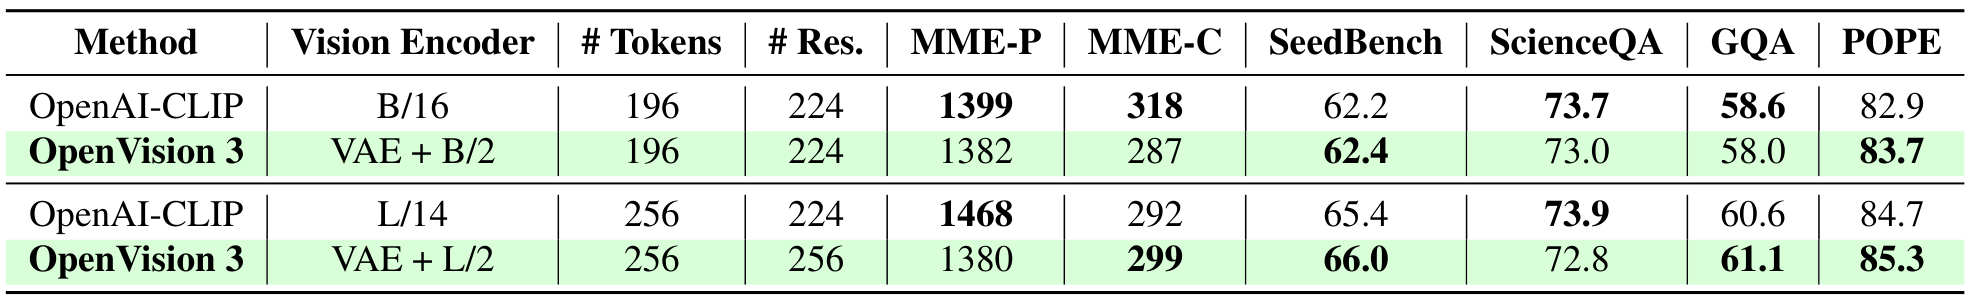
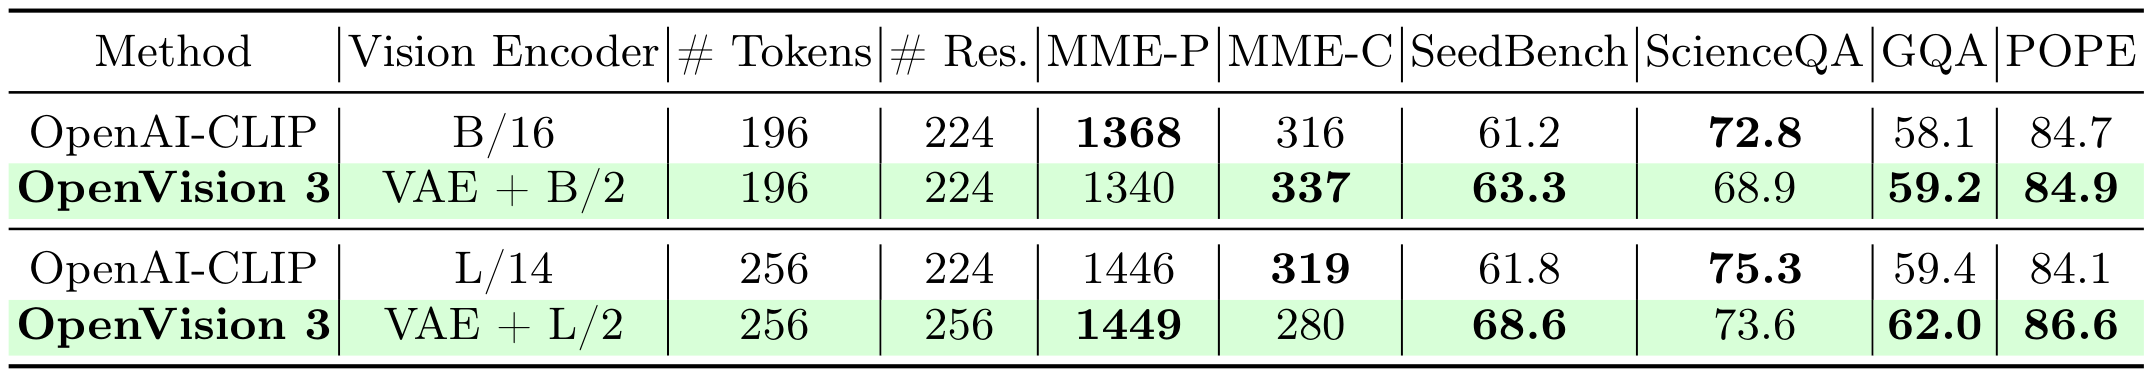
update openvision3

diff --git a/OpenVision3/index.html b/OpenVision3/index.html
@@ -89,7 +89,7 @@
 <div style="max-width: 900px; margin: 2em auto; text-align: left;">
   <h2 class="title is-3 has-text-centered">Abstract</h2>
   <p style="font-size: 1.1em; line-height: 1.6;">
-    This paper presents a family of advanced vision encoder, named OpenVision 3, that learns a single, unified visual representation that can serve both image understanding and image generation. Our core architecture is simple: we feed VAE-compressed image latents to a ViT encoder and train its output to support two complementary roles. First, the encoder output is passed to the ViT-VAE decoder to reconstruct the original image, encouraging the representation to capture generative structure. Second, the same representation is optimized with contrastive learning and image-captioning objectives, strengthening semantic features. By jointly optimizing reconstruction- and semantics-driven signals in a shared latent space, the encoder learns representations that synergize and generalize well across both regimes. We validate this unified design through extensive downstream evaluations with the encoder frozen. For multimodal understanding, we plug the encoder into the LLaVA-1.5 framework: it performs comparably with a standard CLIP vision encoder (e.g., 62.4 vs 62.2 on SeedBench, and 83.7 vs 82.9 on POPE). For generation, we test it under the RAE framework: ours substantially surpasses the standard CLIP-based encoder (e.g., gFID: 1.89 vs 2.54 on ImageNet). We hope this work can spur future research on unified modeling.
+    This paper presents a family of advanced vision encoder, named OpenVision 3, that learns a single, unified visual representation that can serve both image understanding and image generation. Our core architecture is simple: we feed VAE-compressed image latents to a ViT encoder and train its output to support two complementary roles. First, the encoder output is passed to the ViT-VAE decoder to reconstruct the original image, encouraging the representation to capture generative structure. Second, the same representation is optimized with contrastive learning and image-captioning objectives, strengthening semantic features. By jointly optimizing reconstruction- and semantics-driven signals in a shared latent space, the encoder learns representations that synergize and generalize well across both regimes. We validate this unified design through extensive downstream evaluations with the encoder frozen. For generation, we test it under the RAE framework: ours substantially surpasses the standard CLIP-based encoder (e.g., gFID: 1.87 vs. 2.54 on ImageNet). For multimodal understanding, we plug the encoder into the LLaVA-1.5 and LLaVA-NeXT framework: it performs comparably with a standard CLIP vision encoder (e.g., 63.3 vs. 61.2 on SeedBench, and 59.2 vs. 58.1 on GQA). We provide empirical evidence that generation and understanding are mutually beneficial in our architecture, while further underscoring the critical role of the VAE latent space. We hope this work can spur future research on unified modeling.
   </p>
 </div>
 
@@ -127,7 +127,7 @@
       
       <div style="text-align: center;">
         <img src="resources/only_loss.png" alt="OpenVision vs Proprietary Encoders"
-             style="max-width: 80%; height: auto; border: 1px solid #ccc; box-shadow: 0 2px 6px rgba(0,0,0,0.1);">
+             style="max-width: 60%; height: auto; border: 1px solid #ccc; box-shadow: 0 2px 6px rgba(0,0,0,0.1);">
       </div>
     </div>
   </div>
@@ -178,11 +178,11 @@
 
     <!-- LLaVA-1.5 Performance -->
     <div class="content" style="margin-bottom: 2em;">
-      <h3 class="title is-4">Understanding Performance under LLaVA-1.5 Framework</h3>
-      <img src="resources/und_table.png" alt="LLaVA-1.5 Performance Comparison"
+      <h3 class="title is-4">Understanding Performance under LLaVA-NeXT Framework</h3>
+      <img src="resources/und_table.png" alt="LLaVA-NeXT Performance Comparison"
            style="max-width: 80%; height: auto; border: 1px solid #ccc; box-shadow: 0 2px 6px rgba(0,0,0,0.1);">
       <p style="margin-top: 0.8em;">
-        OpenVision demonstrates comparible performance with CLIP on multiple multimodal benchmarks wich much less computational cost.
+        OpenVision demonstrates comparible performance with CLIP on multiple multimodal benchmarks with much less computational cost.
       </p>
     </div>
 
